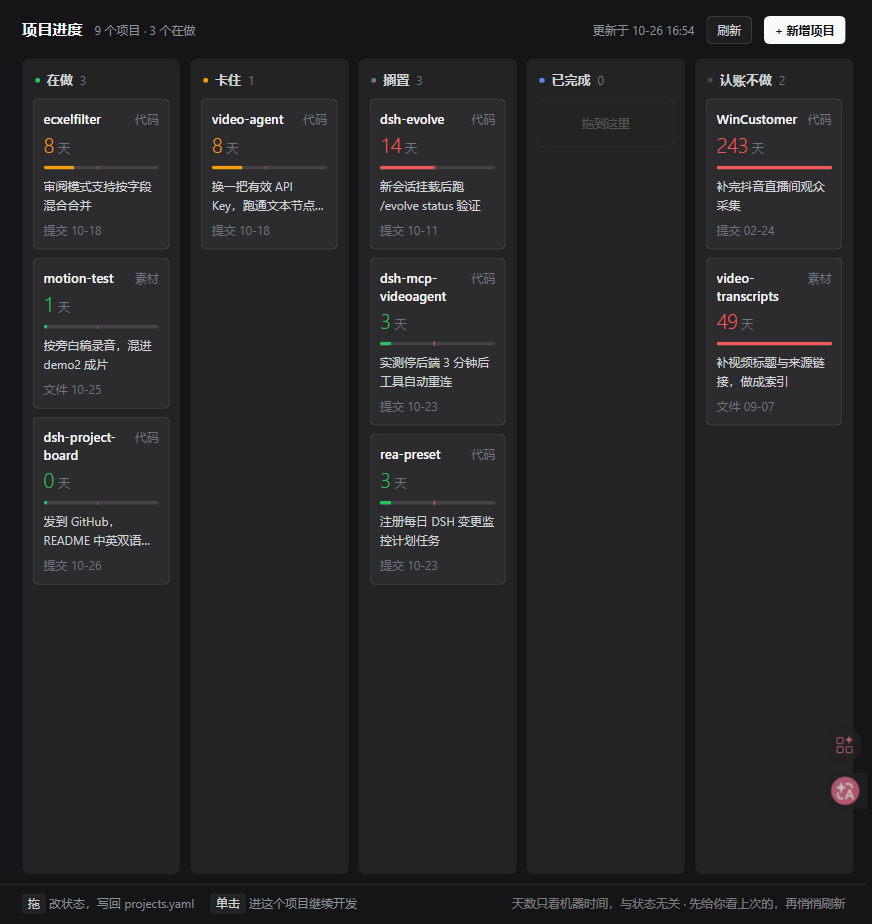
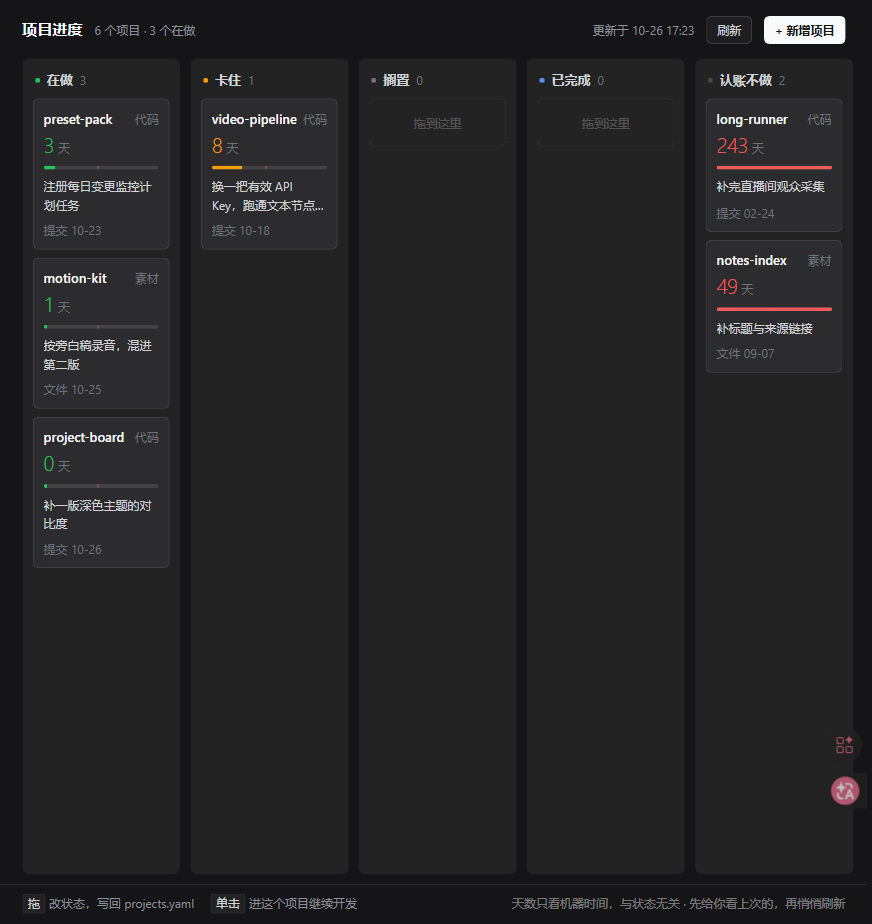
清理：从仓库里移除本地过程稿与真实数据，路径示例改中性，截图换成示例数据
- design-demos/ 与 进度交接.md 从版本控制摘除（文件仍在本地磁盘上，已写进 .gitignore）
- scripts/timing.mjs 同理（一次性测速脚本，指向真实目录）
- 代码/文档里的真实路径与项目名换成示例：D:\work\my-project、D:\dsh-plugins\dsh-project-board
- docs/ 四张截图用示例数据重拍（preset-pack / motion-kit / project-board / video-pipeline /
  long-runner / notes-index），不再出现任何本机项目名

diff --git a/lib/host/evidence.js b/lib/host/evidence.js
@@ -156,7 +156,7 @@ function dirtyNewestMtime(path, statusText) {
 // ── 3. 文件改动 ───────────────────────────────────────────────────────────
 /**
  * 有界遍历，返回目录内最新的文件 mtime（毫秒）。
- * 异步：motion-kit 那种目录同步走一遍要 45ms，够宿主卡一下了。
+ * 异步：素材目录同步走一遍要几十毫秒，够宿主卡一下了。
  * 用 stat 一次拿到 isFile+mtime，省掉 Dirent 之外的第二次 stat。
  */
 export async function newestFileMtime(path) {

diff --git a/README.md b/README.md
@@ -25,10 +25,10 @@ DSH Web 侧边栏里的**原生**项目看板：五列按状态分，**天数只
 前置：`dsh web` 已经能跑，用 `web` profile。
 
 ```powershell
-git clone https://github.com/sunzhiyueaa/dsh-project-board.git D:\work\portfolio
-cd D:\work\portfolio
+git clone https://github.com/sunzhiyueaa/dsh-project-board.git D:\dsh-plugins\dsh-project-board
+cd D:\dsh-plugins\dsh-project-board
 copy projects.example.yaml projects.yaml     # 然后填你自己的项目
-dsh plugin --profile web add link:D:\work\portfolio
+dsh plugin --profile web add link:D:\dsh-plugins\dsh-project-board
 ```
 
 **装完要重启 `dsh web`**：客户端插件清单每个进程只扫一次，不重启侧边栏不会出现这一行。
@@ -77,7 +77,7 @@ settings:
 projects:
   - id: dsh-project-board
     name: dsh-project-board
-    path: D:\work\portfolio
+    path: D:\dsh-plugins\dsh-project-board
     kind: code            # code | material
     status: building
     intent: 一句话说清这个项目现在为了什么
@@ -128,7 +128,6 @@ lib/host/page.js      v1 的独立网页（/project-board 仍可直接打开）
 lib/client.js         面板本体，手写 bundle，无构建链
 cordis.patch.yml      把插件插进 profile 的一行
 docs/                 截图
-进度交接.md            设计与踩坑记录（中文，比较长）
 scripts/check.mjs     离线自检：yaml 合法 + 路由能响应
 ```
 

diff --git a/README.en.md b/README.en.md
@@ -29,10 +29,10 @@ get edited while you talk to the agent.
 Requires a working `dsh web` with the `web` profile.
 
 ```powershell
-git clone https://github.com/sunzhiyueaa/dsh-project-board.git D:\work\portfolio
-cd D:\work\portfolio
+git clone https://github.com/sunzhiyueaa/dsh-project-board.git D:\dsh-plugins\dsh-project-board
+cd D:\dsh-plugins\dsh-project-board
 copy projects.example.yaml projects.yaml     # then put your own projects in
-dsh plugin --profile web add link:D:\work\portfolio
+dsh plugin --profile web add link:D:\dsh-plugins\dsh-project-board
 ```
 
 **Restart `dsh web` afterwards.** The client plugin manifest is scanned once per process;
@@ -81,7 +81,7 @@ settings:
 projects:
   - id: dsh-project-board
     name: dsh-project-board
-    path: D:\work\portfolio
+    path: D:\dsh-plugins\dsh-project-board
     kind: code            # code | material
     status: building
     intent: one sentence, why this project exists right now
@@ -137,7 +137,6 @@ lib/host/page.js      the v1 standalone page (/project-board still works)
 lib/client.js         the panel itself — hand-written bundle, no build step
 cordis.patch.yml      the one row that mounts it into the profile
 docs/                 screenshots
-进度交接.md            design + pitfalls log (Chinese, long)
 scripts/check.mjs     offline self-check: valid yaml + routes respond
 ```
 
